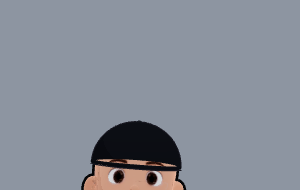
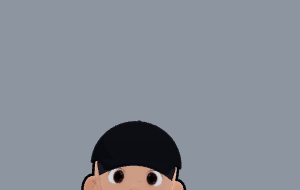
fix(로비 팀 캐릭터): 캡 챙과 돔 사이 틈으로 이마가 비치던 것 — 테두리에 붙은 곡선 챙 · 돔 밑면 안감
미르 11/8: 「모자 챙 연결 부분이 비어 있어서 이마가 비춰 보인다, 그 부분만 막아 달라. 챙을 뉴에라 스타일 말고 곡선으로
일반적인 캡처럼」.
- 원인: 평평한 반원판 챙을 돔 한가운데를 축으로 숙여, 돔 앞 벽 자리에서 챙이 테두리보다 1cm 남짓 내려갔다. 그 틈으로 이마가 비쳤다.
- 챙을 직접 만든 곡면 입체로 바꿨다.
  - 돔 테두리의 앞 호에 그대로 붙고(뿌리는 돔 벽 안쪽 1.2cm 부터), 바깥으로 갈수록 살짝 숙이며 양옆이 아래로 휜다(일반 캡).
  - 옆 폭은 돔 반폭의 86% 라 양 끝이 돔 옆벽 안으로 들어간다. 그래서 앞쪽에만 챙이 보인다 — 돔보다 넓으면 귀 쪽까지 띠가 생기고
    끝에 턱이 졌다.
  - 외곽선 껍데기도 같은 함수로 바깥 · 위아래를 키워 만든다.
- 돔 밑면을 안감 판으로 막았다. 아래에서 올려다봐도 머리와 돔 테두리 사이로 이마가 비치지 않는다. 머리 안쪽 부분은 머리 표면에 가린다.
- 캡 썸네일 5장을 다시 구웠다.
- 확인(헤드리스, 꾸미기 창 남 · 여): 정면 · 비스듬히 · 옆 · 아래에서 틈 없음, 챙은 앞쪽에만 둥글게 휘어 나온다.

Changed region(s): [[0.3, 0.8158, 0.6, 0.9474]]

diff --git a/naju01/src/avatar/TeamOutfitLayer.tsx b/naju01/src/avatar/TeamOutfitLayer.tsx
@@ -217,10 +217,105 @@ function makeMarineTexture() {
 /** 챙 두께(m) */
 const BRIM_THICKNESS = 0.009;
 /**
+ * 챙 크기 — 돔 테두리 대비 옆 폭 · 앞으로 나온 정도. 옆 폭을 돔보다 좁게 둬 챙 양 끝이 돔 옆벽 안으로 들어간다 — 일반 캡처럼
+ * 앞쪽(약 140°)에만 챙이 보인다(돔보다 넓으면 옆을 따라 귀 쪽까지 띠가 생기고 끝에 턱이 졌다)
+ */
+const BRIM_WIDEN = 0.86;
+const BRIM_REACH = 1.7;
+/** 테두리에서 바깥 끝까지 숙이는 기울기(높이/길이) */
+const BRIM_DROOP = 0.16;
+/** 양옆 끝이 아래로 휘는 정도(돔 반폭 대비) — 일반 캡의 둥근 챙 */
+const BRIM_CURL = 0.32;
+/** 돔 밑면(안감) 색 — 챙 밑으로 올려다볼 때 보인다 */
+const CAP_LINING_COLOR = "#1a1c22";
+/**
  * 외곽선 껍데기 두께(m). 몸은 화면 픽셀로 일정한 뒤집은 껍데기를 쓴다 — 캡은 작아서 몇 mm 의 세계 두께로 같은 굵기에 맞춘다
  * (drei Outlines 는 늘린 반원판에서 껍데기가 얼굴을 덮는 큰 삼각형으로 깨졌다).
  */
 const HULL = 0.0035;
+
+/**
+ * 곡선 챙(닫힌 입체). 돔 테두리의 앞 호에 그대로 붙어 있고(뿌리는 돔 벽 안쪽 1.2cm 부터), 바깥으로 갈수록 살짝 숙이며 양옆이
+ * 아래로 휜다. 예전엔 평평한 반원판을 돔 한가운데를 축으로 숙여, 돔 앞 벽에서 챙이 테두리보다 1cm 남짓 내려가 그 틈으로
+ * 이마가 비쳤다(미르 11/8). offset 은 외곽선 껍데기용 — 바깥 · 위아래로 그만큼 키운다.
+ */
+function makeBrimGeometry(radius: THREE.Vector3, offset: number) {
+  const across = 28;
+  const along = 10;
+  const outerX = radius.x * BRIM_WIDEN + offset;
+  const outerZ = radius.z * BRIM_REACH + offset;
+  const rimZ = (x: number) => {
+    const t = 1 - (x / radius.x) ** 2;
+    return t > 0 ? radius.z * Math.sqrt(t) : 0;
+  };
+  const edgeZ = (x: number) => {
+    const t = 1 - (x / outerX) ** 2;
+    return t > 0 ? outerZ * Math.sqrt(t) : 0;
+  };
+  const positions: number[] = [];
+  const rows = across + 1;
+  const cols = along + 1;
+  for (const layer of [0, 1]) {
+    for (let i = 0; i < rows; i += 1) {
+      const x = (i / across) * 2 * outerX - outerX;
+      const inner = rimZ(x) - 0.012 - offset;
+      const outer = Math.max(inner + 1e-4, edgeZ(x));
+      for (let j = 0; j < cols; j += 1) {
+        const z = inner + ((outer - inner) * j) / along;
+        // 테두리 호에서 바깥 끝까지 0 → 1. 테두리 안쪽(뿌리)은 평평하게 테두리 높이
+        const reach = outer - rimZ(x);
+        const t = reach > 1e-4 ? Math.min(1, Math.max(0, (z - rimZ(x)) / reach)) : 0;
+        const drop = t * reach * BRIM_DROOP + t ** 1.5 * BRIM_CURL * radius.x * (x / outerX) ** 2;
+        const y = layer === 0 ? offset - drop : -BRIM_THICKNESS - offset - drop;
+        positions.push(x, y, z);
+      }
+    }
+  }
+  const top = (i: number, j: number) => i * cols + j;
+  const bottom = (i: number, j: number) => rows * cols + i * cols + j;
+  const index: number[] = [];
+  for (let i = 0; i < across; i += 1) {
+    for (let j = 0; j < along; j += 1) {
+      // 윗면(+y) · 아랫면(−y)
+      index.push(top(i, j), top(i, j + 1), top(i + 1, j), top(i + 1, j), top(i, j + 1), top(i + 1, j + 1));
+      index.push(
+        bottom(i, j),
+        bottom(i + 1, j),
+        bottom(i, j + 1),
+        bottom(i + 1, j),
+        bottom(i + 1, j + 1),
+        bottom(i, j + 1),
+      );
+    }
+    // 바깥 끝(+z) · 뿌리(−z, 돔 안)
+    index.push(
+      top(i, along),
+      bottom(i, along),
+      top(i + 1, along),
+      top(i + 1, along),
+      bottom(i, along),
+      bottom(i + 1, along),
+    );
+    index.push(top(i, 0), top(i + 1, 0), bottom(i, 0), top(i + 1, 0), bottom(i + 1, 0), bottom(i, 0));
+  }
+  for (let j = 0; j < along; j += 1) {
+    // 양 끝 벽(−x · +x)
+    index.push(top(0, j), bottom(0, j), top(0, j + 1), top(0, j + 1), bottom(0, j), bottom(0, j + 1));
+    index.push(
+      top(across, j),
+      top(across, j + 1),
+      bottom(across, j),
+      top(across, j + 1),
+      bottom(across, j + 1),
+      bottom(across, j),
+    );
+  }
+  const geometry = new THREE.BufferGeometry();
+  geometry.setAttribute("position", new THREE.Float32BufferAttribute(positions, 3));
+  geometry.setIndex(index);
+  geometry.computeVertexNormals();
+  return geometry;
+}
 
 function Cap({ fit, outline }: { fit: CapFit; outline: OutlineConfig }) {
   const material = useMemo(
@@ -229,6 +324,13 @@ function Cap({ fit, outline }: { fit: CapFit; outline: OutlineConfig }) {
   );
   const buttonMaterial = useMemo(
     () => markAvatarMaterial(new THREE.MeshToonMaterial({ color: CAP_BUTTON_COLOR, gradientMap: gradient })),
+    [],
+  );
+  const liningMaterial = useMemo(
+    () =>
+      markAvatarMaterial(
+        new THREE.MeshToonMaterial({ color: CAP_LINING_COLOR, gradientMap: gradient, side: THREE.DoubleSide }),
+      ),
     [],
   );
   const inkMaterial = useMemo(
@@ -241,20 +343,28 @@ function Cap({ fit, outline }: { fit: CapFit; outline: OutlineConfig }) {
     inkMaterial.visible = outline.enabled;
   }, [inkMaterial, outline.color, outline.enabled]);
   const dome = useMemo(() => new THREE.SphereGeometry(1, 40, 18, 0, Math.PI * 2, 0, Math.PI / 2), []);
-  const brim = useMemo(() => new THREE.CylinderGeometry(1, 1, BRIM_THICKNESS, 32, 1, false, -Math.PI / 2, Math.PI), []);
+  // 돔 밑면 — 머리와 돔 테두리 사이의 빈 곳을 막는다(머리 안쪽은 머리 표면에 가려 안 보인다)
+  const lining = useMemo(() => new THREE.CircleGeometry(1, 40).rotateX(-Math.PI / 2), []);
+  const { center, radius, frame } = fit;
+  const brim = useMemo(() => makeBrimGeometry(radius, 0), [radius]);
+  const brimHull = useMemo(() => makeBrimGeometry(radius, HULL), [radius]);
   useEffect(
     () => () => {
-      [material, buttonMaterial, inkMaterial, dome, brim].forEach((item) => item.dispose());
+      [material, buttonMaterial, liningMaterial, inkMaterial, dome, lining].forEach((item) => item.dispose());
     },
-    [material, buttonMaterial, inkMaterial, dome, brim],
+    [material, buttonMaterial, liningMaterial, inkMaterial, dome, lining],
   );
-  const { center, radius, frame } = fit;
-  const brimAt: [number, number, number] = [center.x, center.y + 0.003, center.z];
-  const brimScale: [number, number, number] = [radius.x * 1.02, 1, radius.z * 1.65];
+  useEffect(
+    () => () => {
+      brim.dispose();
+      brimHull.dispose();
+    },
+    [brim, brimHull],
+  );
   const button = Math.max(0.006, radius.x * 0.07);
   return createPortal(
     <group matrixAutoUpdate={false} matrix={frame.basis}>
-      {/* 돔 — 위 반구를 머리에 맞춰 늘린다. 껍데기는 아래가 열려 있어 챙 밑 안쪽이 어둡게 보인다 */}
+      {/* 돔 — 위 반구를 머리에 맞춰 늘린다 */}
       <mesh position={center} scale={radius} geometry={dome} material={material} castShadow receiveShadow />
       <mesh
         position={center}
@@ -262,14 +372,17 @@ function Cap({ fit, outline }: { fit: CapFit; outline: OutlineConfig }) {
         geometry={dome}
         material={inkMaterial}
       />
-      {/* 챙 — 앞쪽 반원판, 살짝 아래로 */}
-      <group position={brimAt} rotation={[0.14, 0, 0]}>
-        <mesh scale={brimScale} geometry={brim} material={material} castShadow receiveShadow />
-        <mesh
-          scale={[brimScale[0] + HULL, 1 + (2 * HULL) / BRIM_THICKNESS, brimScale[2] + HULL]}
-          geometry={brim}
-          material={inkMaterial}
-        />
+      <mesh
+        position={[center.x, center.y + 0.0005, center.z]}
+        scale={[radius.x, 1, radius.z]}
+        geometry={lining}
+        material={liningMaterial}
+        receiveShadow
+      />
+      {/* 챙 — 테두리 앞 호에 붙은 곡선 챙 */}
+      <group position={center}>
+        <mesh geometry={brim} material={material} castShadow receiveShadow />
+        <mesh geometry={brimHull} material={inkMaterial} />
       </group>
       {/* 꼭대기 단추 */}
       <mesh position={[center.x, center.y + radius.y - button * 0.3, center.z]} material={buttonMaterial}>
